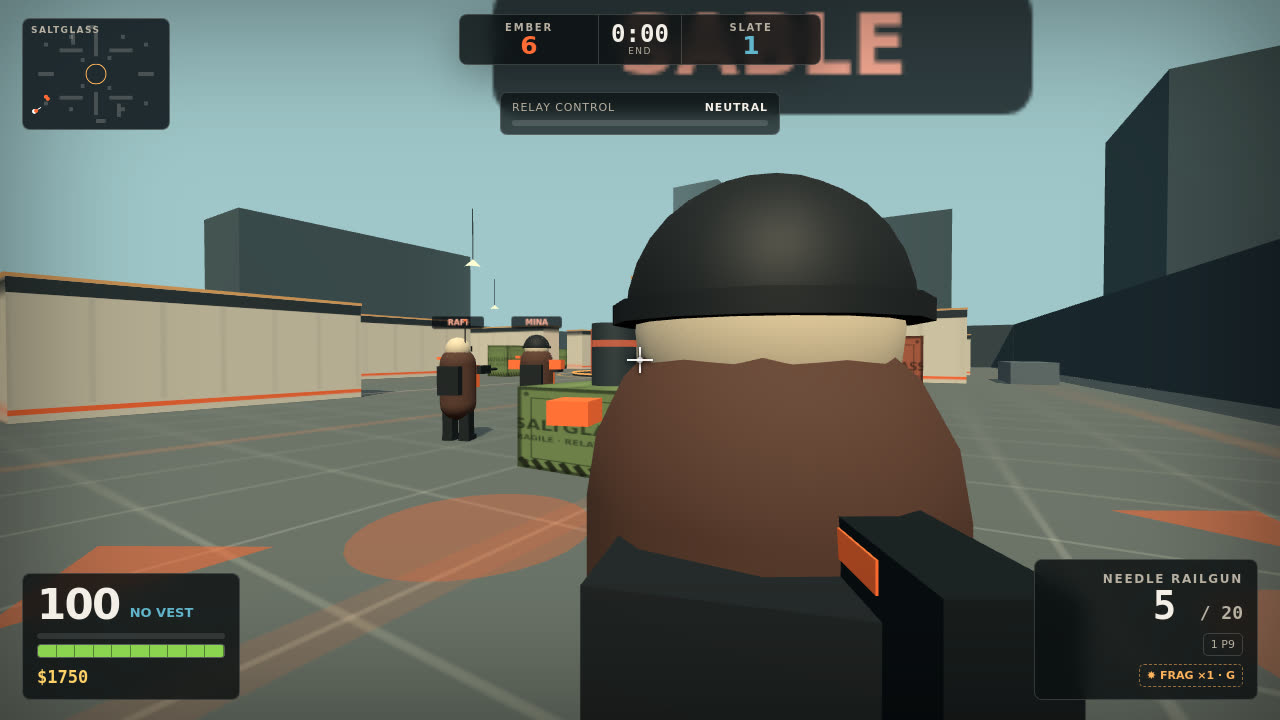
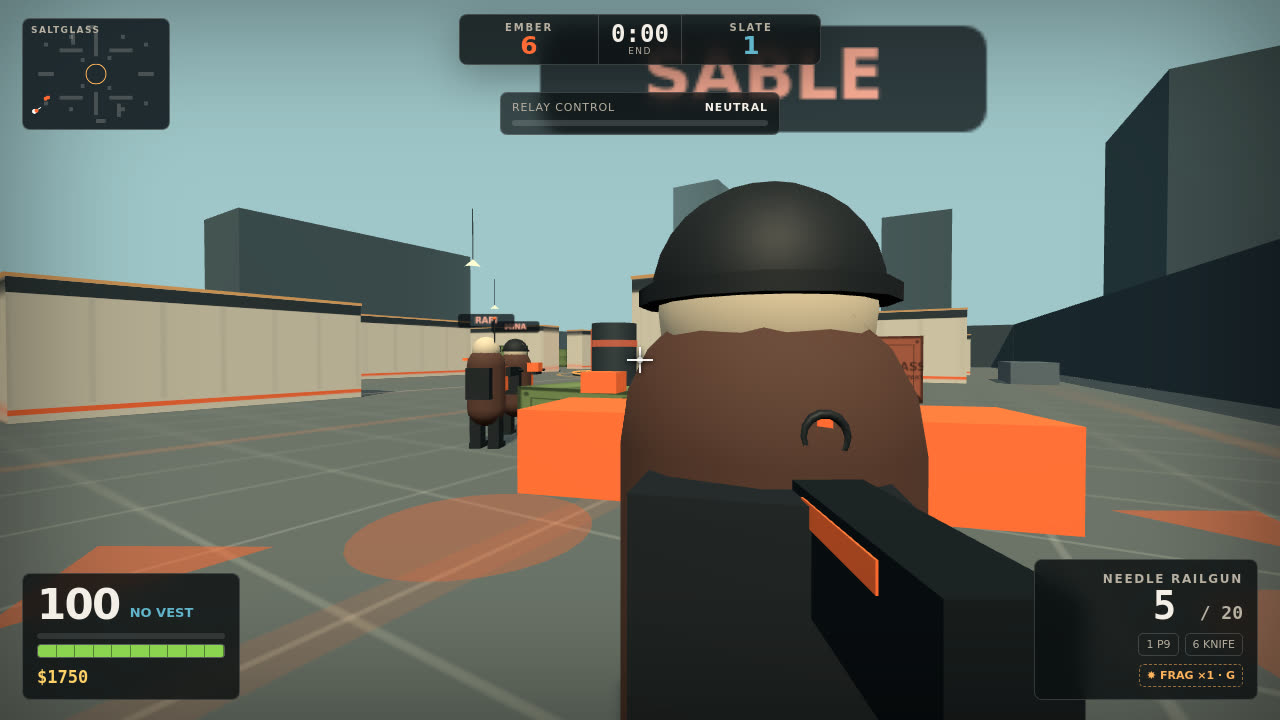
feat: combat knife - melee slot 6, silent swing via the existing hit system, survives loadout resets; README + screenshots refreshed

diff --git a/game/src/main.js b/game/src/main.js
@@ -44,7 +44,7 @@ const game = {
 };
 const keys = new Set();
 let mouseDown = false, rightMouseDown = false, semiLatch = false;
-let bobPhase = 0, viewKick = 0, scoped = false, damageFlashUntil = 0;
+let bobPhase = 0, viewKick = 0, knifeSwingAnim = 0, scoped = false, damageFlashUntil = 0;
 // Noise bus: gunfire is information - nearby bots investigate (events pruned after 1.5 s).
 let aiming = false, aimSpreadScale = 1, bloom = 0, noiseEvents = [];
 let lastHudSecond = -1;
@@ -78,6 +78,16 @@ camera.add(viewGun);
 function rebuildViewGun() {
   viewGun.clear();
   const id = player.loadout.current;
+  if (id === 'knife') {
+    const dark = new THREE.MeshStandardMaterial({ color: 0x20282c, roughness: 0.42, metalness: 0.42 });
+    const bladeMat = new THREE.MeshStandardMaterial({ color: 0xd8dcde, roughness: 0.2, metalness: 0.85 });
+    const grip = new THREE.Mesh(new THREE.BoxGeometry(0.08, 0.22, 0.12), dark);
+    grip.position.set(0, -0.16, 0.12); grip.rotation.x = 0.35; viewGun.add(grip);
+    const blade = new THREE.Mesh(new THREE.BoxGeometry(0.04, 0.45, 0.015), bladeMat);
+    blade.position.set(0, 0.12, -0.12); blade.rotation.x = -0.1; viewGun.add(blade);
+    viewGun.position.set(0.29, -0.27, -0.58);
+    return;
+  }
   const dark = new THREE.MeshStandardMaterial({ color: 0x20282c, roughness: 0.42, metalness: 0.42 });
   const accent = new THREE.MeshStandardMaterial({ color: id === 'needle' ? 0x62b6cb : 0xff6b35, roughness: 0.38, emissive: id === 'needle' ? 0x1d5d70 : 0x5c1e08, emissiveIntensity: 0.7 });
   const bodyLen = id === 'shotgun' ? 0.72 : id === 'needle' ? 0.9 : id === 'sidearm' ? 0.42 : 0.66;
@@ -177,7 +187,7 @@ function topUpMagazines(actor) {
 
 function resetRoundLoadout(actor) {
   if (!actor.alive) {
-    actor.loadout = freshLoadout();
+    actor.loadout = freshLoadout(actor.isPlayer);
   }
   topUpMagazines(actor);
   // One free frag per round, up to the carry cap — the "refill per wave".
@@ -202,7 +212,7 @@ function resetActorsForRound() {
 
 function resetMatch() {
   game.scores.EMBER = 0; game.scores.SLATE = 0; game.round = 1; game.over = false; game.winner = null;
-  for (const a of actors) { a.money = ECONOMY.start; a.kills = 0; a.deaths = 0; a.alive = false; a.loadout = freshLoadout(); }
+  for (const a of actors) { a.money = ECONOMY.start; a.kills = 0; a.deaths = 0; a.alive = false; a.loadout = freshLoadout(a.isPlayer); }
   enterBuy();
 }
 
@@ -543,16 +553,19 @@ function fireActor(actor, baseDir) {
   const now = performance.now() / 1000;
   const w = weaponOf(actor), s = stateOf(actor);
   if (!actor.alive || game.phase !== 'live' || actor.reloading || now < actor.nextShotAt) return false;
-  if (s.magazine <= 0) { if (actor.isPlayer) sfx.empty(); startReload(actor); return false; }
+  if (!w.melee) {
+    if (s.magazine <= 0) { if (actor.isPlayer) sfx.empty(); startReload(actor); return false; }
+    s.magazine--;
+    if (actor.isPlayer) bloom = Math.min(1, bloom + (w.id === 'shotgun' ? 0.3 : 0.16));
+  } else {
+    if (actor.isPlayer) sfx.swing();
+  }
   actor.nextShotAt = now + 60 / w.rpm;
   actor.lastShotAt = now;
-  s.magazine--;
-
-  if (actor.isPlayer) bloom = Math.min(1, bloom + (w.id === 'shotgun' ? 0.3 : 0.16));
 
   const speed = Math.hypot(actor.ai?.vx || 0, actor.ai?.vz || 0);
-  const bloomSpread = actor.isPlayer ? bloom * 0.02 : 0;
-  const spread = ((w.spread + (speed > 0.6 ? w.movingSpread * Math.min(1, speed / 5) : 0) + (actor.ai?.crouching ? -w.spread * 0.3 : 0)) + bloomSpread) * (actor.isPlayer ? aimSpreadScale : 1);
+  const bloomSpread = (actor.isPlayer && !w.melee) ? bloom * 0.02 : 0;
+  const spread = w.melee ? 0.12 : ((w.spread + (speed > 0.6 ? w.movingSpread * Math.min(1, speed / 5) : 0) + (actor.ai?.crouching ? -w.spread * 0.3 : 0)) + bloomSpread) * (actor.isPlayer ? aimSpreadScale : 1);
 
   const origin = actor.isPlayer ? camera.position.clone() : eyeOf(actor, sV).addScaledVector(forwardOf(actor, sV2), 0.42).add(sV3.set(0, -0.22, 0));
   const muzzle = actor.isPlayer ? camera.position.clone().addScaledVector(baseDir, 0.7) : origin.clone();
@@ -571,37 +584,42 @@ function fireActor(actor, baseDir) {
     }
     const endDist = best ? best.distance : Math.min(w.range, wallDist);
     const end = origin.clone().addScaledVector(dir, endDist);
-    addTracer(muzzle, end, w.tracer);
+    if (!w.melee) addTracer(muzzle, end, w.tracer);
     if (best) {
-      const fall = best.distance <= w.falloffStart ? 1 : THREE.MathUtils.lerp(1, w.minDamageScale, Math.min(1, (best.distance - w.falloffStart) / Math.max(1, w.range - w.falloffStart)));
+      const fall = w.melee ? 1 : (best.distance <= w.falloffStart ? 1 : THREE.MathUtils.lerp(1, w.minDamageScale, Math.min(1, (best.distance - w.falloffStart) / Math.max(1, w.range - w.falloffStart))));
       const dealt = damageTarget(actor, best.target, w.damage * fall, best.zone, w);
       anyHit = dealt > 0 || anyHit;
       if (dealt > 0 && actor.isPlayer) spawnDamageNumber(end, dealt, best.zone, !best.target.alive);
       addSparks(end, best.zone === 'head' ? 9 : 5);
-    } else if (wallDist < Infinity) addSparks(end, 3);
+    } else if (!w.melee && wallDist < Infinity) addSparks(end, 3);
   }
   const distToPlayer = actor.pos.distanceTo(player.pos);
-  sfx.shot(w.id, actor.isPlayer ? 0 : distToPlayer);
-
-  let r = (w.id === 'needle' || w.id === 'rifle') ? 34 : (w.id === 'smg' || w.id === 'sidearm') ? 26 : 40;
-  if (actor.isPlayer && (keys.has('AltLeft') || keys.has('AltRight'))) r /= 2;
-  noiseEvents.push({ x: actor.pos.x, z: actor.pos.z, r, team: actor.team, at: performance.now() / 1000 });
+  if (!w.melee) {
+    sfx.shot(w.id, actor.isPlayer ? 0 : distToPlayer);
+    let r = (w.id === 'needle' || w.id === 'rifle') ? 34 : (w.id === 'smg' || w.id === 'sidearm') ? 26 : 40;
+    if (actor.isPlayer && (keys.has('AltLeft') || keys.has('AltRight'))) r /= 2;
+    noiseEvents.push({ x: actor.pos.x, z: actor.pos.z, r, team: actor.team, at: performance.now() / 1000 });
+  }
 
   if (actor.isPlayer) {
-    const recoilScale = aiming ? 0.85 : 1;
-    actor.pitch = Math.min(1.45, actor.pitch + w.recoil * 0.62 * recoilScale);
-    viewKick = Math.min(0.09, viewKick + w.recoil * 1.9 * recoilScale);
-    // The Needle's bolt cycle drops you out of the scope for a beat after
-    // every shot — you re-acquire the target instead of camping the glass.
-    if (w.id === 'needle') scopeBlockUntil = performance.now() / 1000 + 0.55;
-    if (s.magazine === 0) startReload(actor);
+    if (w.melee) {
+      knifeSwingAnim = 0.22;
+    } else {
+      const recoilScale = aiming ? 0.85 : 1;
+      actor.pitch = Math.min(1.45, actor.pitch + w.recoil * 0.62 * recoilScale);
+      viewKick = Math.min(0.09, viewKick + w.recoil * 1.9 * recoilScale);
+      // The Needle's bolt cycle drops you out of the scope for a beat after
+      // every shot — you re-acquire the target instead of camping the glass.
+      if (w.id === 'needle') scopeBlockUntil = performance.now() / 1000 + 0.55;
+      if (s.magazine === 0) startReload(actor);
+    }
   }
   return true;
 }
 
 function startReload(actor) {
   const w = weaponOf(actor), s = stateOf(actor);
-  if (actor.reloading || s.magazine >= w.magazine || s.reserve <= 0) return;
+  if (w.melee || actor.reloading || s.magazine >= w.magazine || s.reserve <= 0) return;
   actor.reloading = true;
   actor.reloadUntil = performance.now() / 1000 + w.reloadTime;
   if (actor.isPlayer) sfx.reload();
@@ -802,7 +820,9 @@ function updatePlayer(dt) {
   let iz = (keys.has('KeyW') ? 1 : 0) - (keys.has('KeyS') ? 1 : 0);
   const len = Math.hypot(ix, iz) || 1; ix /= len; iz /= len;
   const sprint = (keys.has('ShiftLeft') || keys.has('ShiftRight')) && iz > 0 && !p.ai.crouching && !aiming && !(keys.has('AltLeft') || keys.has('AltRight'));
-  const speed = (p.ai.crouching ? 2.55 : (keys.has('AltLeft') || keys.has('AltRight')) ? 2.1 : sprint ? 6.25 : 4.65) * (aiming ? 0.55 : 1);
+  const w = weaponOf(p);
+  const moveMult = w.moveMult || 1;
+  const speed = (p.ai.crouching ? 2.55 : (keys.has('AltLeft') || keys.has('AltRight')) ? 2.1 : sprint ? 6.25 : 4.65) * (aiming ? 0.55 : 1) * moveMult;
   const f = forwardOf(p), r = new THREE.Vector3(Math.cos(p.yaw), 0, -Math.sin(p.yaw));
   const wish = new THREE.Vector3().addScaledVector(f, iz).addScaledVector(r, ix);
   if (wish.lengthSq() > 0) wish.normalize();
@@ -863,6 +883,7 @@ function updateCamera(dt) {
   } else {
     swayT = 0; breath = Math.min(1, breath + dt / 2);
   }
+  knifeSwingAnim = Math.max(0, knifeSwingAnim - dt);
   shakeAmp = Math.max(0, shakeAmp - dt * 0.055);
   const shakeX = (Math.random() - 0.5) * 2 * shakeAmp;
   const shakeY = (Math.random() - 0.5) * 2 * shakeAmp;
@@ -875,6 +896,13 @@ function updateCamera(dt) {
   }
   viewGun.position.z = -0.58 + viewKick;
   viewGun.position.y = -0.27 + Math.sin(bobPhase * 2) * 0.008 - viewKick * 0.35;
+  if (player.loadout.current === 'knife' && knifeSwingAnim > 0) {
+    const prog = knifeSwingAnim / 0.22;
+    viewGun.rotation.x = -prog * 0.45;
+    viewGun.position.z += prog * 0.18;
+  } else {
+    viewGun.rotation.x = 0;
+  }
   viewGun.visible = p.alive && game.phase !== 'buy' && !scoped;
   const showScope = scoped && p.alive && game.phase === 'live';
   $('scopeOverlay').classList.toggle('hidden', !showScope);
@@ -908,7 +936,11 @@ function updateHud(force = false) {
   $('money').textContent = `$${player.money}`;
   const w = weaponOf(player), s = stateOf(player);
   $('weaponName').textContent = player.reloading ? `${w.name} — RELOADING` : w.name;
-  $('ammo').innerHTML = `${s.magazine} <span>/ ${s.reserve}</span>`;
+  if (w.melee) {
+    $('ammo').innerHTML = 'MELEE';
+  } else {
+    $('ammo').innerHTML = `${s.magazine} <span>/ ${s.reserve}</span>`;
+  }
   const slots = $('weaponSlots'); slots.innerHTML = '';
   for (const id of Object.values(WEAPONS).sort((a, b) => a.slot - b.slot)) {
     if (!player.loadout.owned.has(id.id)) continue;
@@ -962,7 +994,7 @@ document.addEventListener('keydown', e => {
   if (!player.alive) return;
   if (e.code === 'KeyR') startReload(player);
   if (e.code === 'KeyG') throwGrenade();
-  const slot = ['Digit1', 'Digit2', 'Digit3', 'Digit4', 'Digit5'].indexOf(e.code) + 1;
+  const slot = ['Digit1', 'Digit2', 'Digit3', 'Digit4', 'Digit5', 'Digit6'].indexOf(e.code) + 1;
   if (slot) {
     const id = Object.values(WEAPONS).find(w => w.slot === slot)?.id;
     if (id) switchWeapon(id);

diff --git a/game/src/config.js b/game/src/config.js
@@ -9,7 +9,7 @@ export const WEAPONS = {
     damage: 32, headMultiplier: 2.3, rpm: 360, automatic: false,
     magazine: 12, reserve: 72, reloadTime: 1.25, pellets: 1,
     spread: 0.011, movingSpread: 0.028, recoil: 0.011, range: 58,
-    falloffStart: 18, minDamageScale: 0.52, tracer: 0xffd166,
+    falloffStart: 18, minDamageScale: 0.52, tracer: 0xffd166, moveMult: 1,
     description: 'Free, honest and accurate when you give it a beat between shots.',
   },
   smg: {
@@ -17,7 +17,7 @@ export const WEAPONS = {
     damage: 25, headMultiplier: 1.9, rpm: 820, automatic: true,
     magazine: 32, reserve: 128, reloadTime: 1.85, pellets: 1,
     spread: 0.026, movingSpread: 0.052, recoil: 0.0075, range: 48,
-    falloffStart: 13, minDamageScale: 0.42, tracer: 0x8bd450,
+    falloffStart: 13, minDamageScale: 0.42, tracer: 0x8bd450, moveMult: 1,
     description: 'Close-range confidence. Eats corners and budgets at the same speed.',
   },
   shotgun: {
@@ -25,7 +25,7 @@ export const WEAPONS = {
     damage: 13, headMultiplier: 1.45, rpm: 76, automatic: false,
     magazine: 6, reserve: 30, reloadTime: 2.7, pellets: 8,
     spread: 0.082, movingSpread: 0.105, recoil: 0.045, range: 28,
-    falloffStart: 7, minDamageScale: 0.25, tracer: 0xff9f43,
+    falloffStart: 7, minDamageScale: 0.25, tracer: 0xff9f43, moveMult: 1,
     description: 'A doorway argument with eight pellets. Useless across the yard, decisive inside it.',
   },
   rifle: {
@@ -33,7 +33,7 @@ export const WEAPONS = {
     damage: 42, headMultiplier: 2.25, rpm: 610, automatic: true,
     magazine: 30, reserve: 90, reloadTime: 2.05, pellets: 1,
     spread: 0.014, movingSpread: 0.042, recoil: 0.014, range: 78,
-    falloffStart: 27, minDamageScale: 0.62, tracer: 0xff6b35,
+    falloffStart: 27, minDamageScale: 0.62, tracer: 0xff6b35, moveMult: 1,
     description: 'The round-winner. Rewards first-shot discipline more than trigger time.',
   },
   needle: {
@@ -41,8 +41,15 @@ export const WEAPONS = {
     damage: 108, headMultiplier: 1.6, rpm: 46, automatic: false,
     magazine: 5, reserve: 20, reloadTime: 2.8, pellets: 1,
     spread: 0.0015, movingSpread: 0.09, recoil: 0.075, range: 110,
-    falloffStart: 55, minDamageScale: 0.9, tracer: 0x9be7ff,
+    falloffStart: 55, minDamageScale: 0.9, tracer: 0x9be7ff, moveMult: 1,
     description: 'One body shot, one funeral. Right-click for the sniper scope (2×/4×/8×, scroll to zoom, hold Shift to steady your breath); never fire it on the run.',
+  },
+  knife: {
+    id: 'knife', slot: 6, name: 'Combat Knife', short: 'KNIFE', price: 0,
+    melee: true, damage: 55, headMultiplier: 2.0, rpm: 143, pellets: 1,
+    spread: 0.12, movingSpread: 0.12, recoil: 0, range: 2.3,
+    falloffStart: 2.3, minDamageScale: 1, tracer: 0, moveMult: 1.15,
+    description: 'Always there when diplomacy fails. Silent, swift, and costs nothing.',
   },
 };
 
@@ -63,6 +70,7 @@ export const GRENADE = {
 };
 
 export const BUY_ITEMS = [
+  { kind: 'weapon', id: 'knife' },
   { kind: 'weapon', id: 'smg' },
   { kind: 'weapon', id: 'shotgun' },
   { kind: 'weapon', id: 'rifle' },

diff --git a/game/src/actors.js b/game/src/actors.js
@@ -5,14 +5,18 @@ let nextId = 1;
 
 function weaponState(id) {
   const w = WEAPONS[id];
+  if (w.melee) return { id, magazine: 0, reserve: 0 };
   return { id, magazine: w.magazine, reserve: w.reserve };
 }
 
-export function freshLoadout() {
+export function freshLoadout(isPlayer = false) {
+  const owned = isPlayer ? new Set(['sidearm', 'knife']) : new Set(['sidearm']);
+  const states = { sidearm: weaponState('sidearm') };
+  if (isPlayer) states.knife = weaponState('knife');
   return {
-    owned: new Set(['sidearm']),
+    owned,
     current: 'sidearm',
-    states: { sidearm: weaponState('sidearm') },
+    states,
     armor: 0,
     grenades: 0,
   };
@@ -102,7 +106,7 @@ export function createActor({ name, team, isPlayer = false, scene }) {
     id: nextId++, name, team, isPlayer,
     pos: new THREE.Vector3(), velocityY: 0, yaw: 0, pitch: 0,
     radius: 0.42, eyeHeight: 1.62, health: 100, alive: true,
-    money: 800, kills: 0, deaths: 0, loadout: freshLoadout(),
+    money: 800, kills: 0, deaths: 0, loadout: freshLoadout(isPlayer),
     lastShotAt: -9, nextShotAt: 0, reloadUntil: 0, reloading: false,
     burstLeft: 0, nextBurstAt: 0, aimTime: 0, lastDamageAt: -9, lastAttacker: null,
     ai: {

diff --git a/game/src/audio.js b/game/src/audio.js
@@ -65,6 +65,7 @@ export class SoundFX {
 
   empty() { this.tone(1150, 0.045, 'square', 0.07); }
   reload() { this.tone(340, 0.06, 'square', 0.07); setTimeout(() => this.tone(520, 0.07, 'square', 0.08), 130); }
+  swing() { this.noise(0.13, 0.18, 700, 2200); this.tone(280, 0.08, 'triangle', 0.1, -140); }
   // Hit confirmation is deliberately layered so a hit is audible even when
   // the marker is missed: body = double tick, head = bright two-note ding.
   hit(head = false) {

diff --git a/README.md b/README.md
@@ -4,13 +4,14 @@
 [![rank](https://make.fun/badge/threejs-fps-02/jusst01/tembak-terus/rank.svg)](https://make.fun/bounty/threejs-fps-02/leaderboard?utm_source=github&utm_medium=readme&utm_campaign=threejs-fps-02)
 [![reward](https://make.fun/badge/threejs-fps-02/jusst01/tembak-terus/reward.svg)](https://make.fun/bounty/threejs-fps-02/leaderboard?utm_source=github&utm_medium=readme&utm_campaign=threejs-fps-02)
 
-A Counter-Strike-style round-based tactical FPS built with three.js. Hold the Saltglass Yard with the Ember Watch against the Slate Union in 4v4 matches against bots with A* waypoint navigation and a noise/hearing system. Eliminate the opposing team or capture the central relay for eight seconds to win the round. Seven rounds wins the match. Money earned in buy phases funds your loadout — rifles, SMGs, shotguns, scoped Needle railguns, frag grenades, armor, and utility from the buy menu.
+A Counter-Strike-style round-based tactical FPS built with three.js. Hold the Saltglass Yard with the Ember Watch against the Slate Union in 4v4 matches against bots with A* waypoint navigation and a noise/hearing system. Eliminate the opposing team or capture the central relay for eight seconds to win the round. Seven rounds wins the match. Money earned in buy phases funds your loadout — rifles, SMGs, shotguns, scoped Needle railguns, frag grenades, armor, and utility from the buy menu, plus a silent Combat Knife riding in slot 6.
 
 ## Features
 
 - **Tactical 4v4 Matches**: Ember Watch vs. Slate Union on the Saltglass Yard arena.
 - **Round-Based Economy**: Buy weapons, vests, and grenades between rounds; surviving weapons carry over.
 - **Advanced Gunplay**: Aim-down-sights (ADS) on every weapon, bloom/recoil spread model, hitmarkers, floating damage numbers, and overhead HP bars.
+- **Combat Knife Melee**: Slot 6 always holds the Combat Knife - 55 damage (double on headshots), 2.3 m reach, completely silent so the bots' hearing bus never notices, and a 15% movement-speed bonus while drawn.
 - **Scoped Railgun & Breath Control**: The Needle railgun features 2×/4×/8× zoom (scroll wheel) and Shift breath-hold stabilization.
 - **A* Bot Navigation & Noise Bus**: Bots navigate waypoint graphs, react to gunfire noise events, and coordinate flanks.
 - **Objective Play**: Dual win conditions — wipe out the enemy team or capture the relay.
@@ -24,7 +25,7 @@ A Counter-Strike-style round-based tactical FPS built with three.js. Hold the Sa
 - **Right-click**: Aim down sights / scope (Needle railgun)
 - **R**: Reload
 - **G**: Throw frag grenade
-- **1–5**: Select weapon
+- **1–6**: Select weapon (6 = Combat Knife)
 - **Wheel**: Switch weapons (or adjust scope zoom while scoped)
 - **Shift**: Sprint / hold breath while scoped
 - **Alt**: Walk (quiet movement)
@@ -48,7 +49,7 @@ The game consists of plain static files under `game/` (ES modules, no build step
 - `game/src/world.js` — Saltglass arena layout, cover colliders, relay ring, and A* waypoint graph.
 - `game/src/actors.js` — Player and bot character rigs, loadouts, health, and hit zones.
 - `game/src/audio.js` — Procedural WebAudio sound effects.
-- `game/src/main.js` — Core game flow, fixed-step 60 Hz deterministic simulation, gunplay, grenades, and HUD.
+- `game/src/main.js` — Core game flow, fixed-step 60 Hz deterministic simulation, gunplay, grenades, melee, and HUD.
 
 ## License & Credits
 
